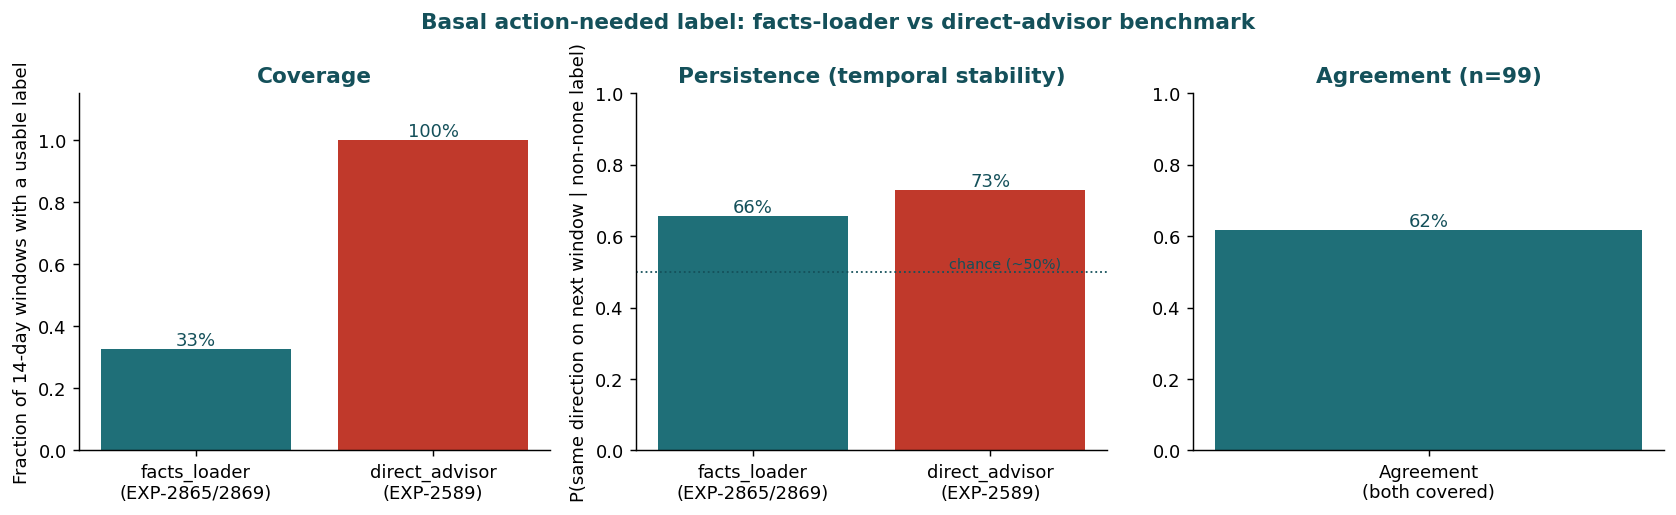
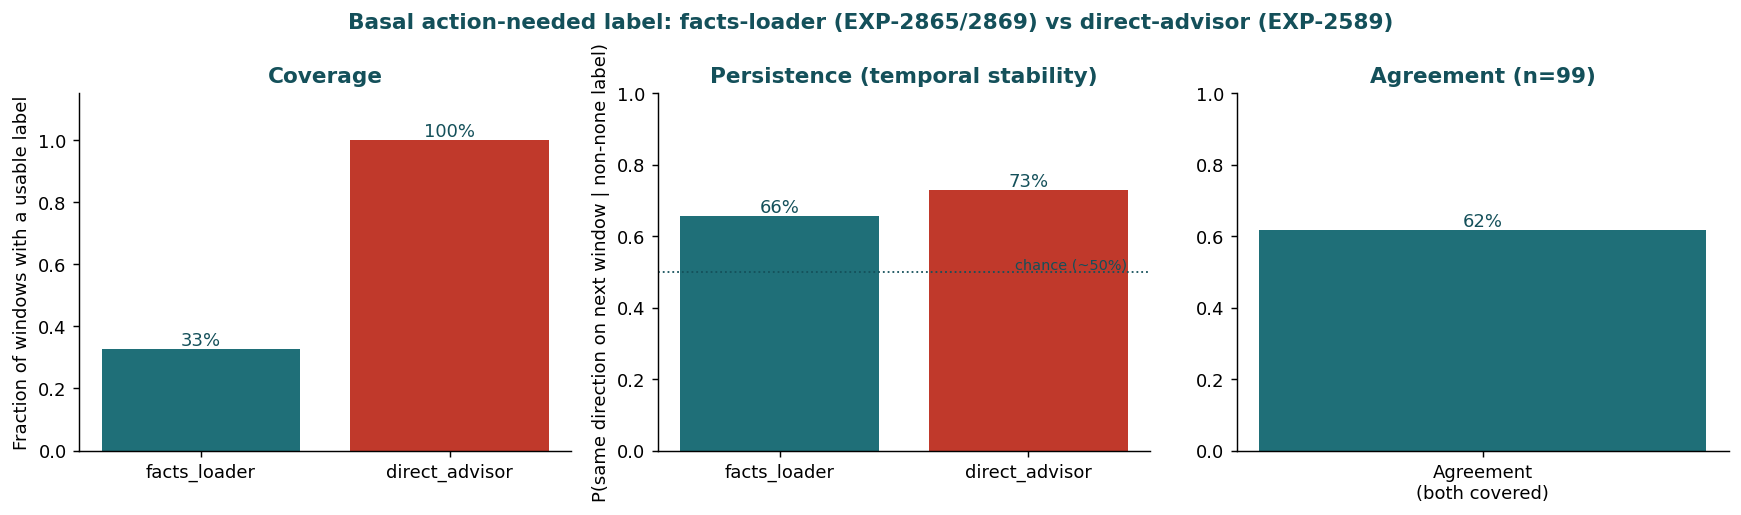
Refresh action-label benchmark deliverables: add ISF/CR figures for parity
Prompted by a deliverable-freshness check: the main therapy-trajectory
report (reports/therapy-trajectory-state/report.html) was confirmed
current (its embedded AUC numbers match the latest recency-feature
re-test), but basal was the only domain with a benchmark figure -- ISF
and CR only had numbers in the docs.

- tools/cgmencode/production/action_label_benchmark_figures.py: a
  single, tested plot_action_label_benchmark() function replacing the
  one-off basal plotting script, handling both two-method (basal/ISF)
  and single-method (CR, no facts-loader equivalent exists) summaries.
- test_action_label_benchmark_figures.py: 4 tests.
- reports/therapy-trajectory-state/basal-label-benchmark.png: regenerated
  with the new function (values unchanged -- confirms consistency with
  the original one-off script).
- reports/therapy-trajectory-state/isf-label-benchmark.png,
  cr-label-benchmark.png: new, giving all three domains the same visual
  treatment.
- docs/60-research/state-aware-harness-parallels-2026-07-01.md
  §7.4-§7.5: added the new figure references.

Verified: 4 new tests plus full existing production unit suite pass
with no regressions (1165 total).

diff --git a/tools/cgmencode/production/action_label_benchmark_figures.py b/tools/cgmencode/production/action_label_benchmark_figures.py
@@ -1,0 +1,111 @@
+"""action_label_benchmark_figures.py — shared visualization for the basal/
+ISF/CR action-label benchmarks (`basal_action_label_benchmark.py`,
+`isf_action_label_benchmark.py`, `cr_action_label_benchmark.py`; see
+docs/60-research/state-aware-harness-parallels-2026-07-01.md §7).
+
+Each benchmark's ``summarize_*_label_benchmark()`` returns the same
+shape (coverage, persistence, and -- for basal/ISF, which have two
+independent label sources -- agreement). This module renders one
+consistent 3-panel comparison chart from that summary so every domain
+gets the same visual treatment rather than one-off plotting code per
+domain (basal's first figure was generated ad hoc; this replaces that
+with a reusable, tested function).
+"""
+from __future__ import annotations
+
+from pathlib import Path
+from typing import Optional
+
+_C_A = "#1f6f78"
+_C_B = "#c0392b"
+_C_INK = "#14505a"
+
+
+def _style_axes(ax):
+    ax.spines["top"].set_visible(False)
+    ax.spines["right"].set_visible(False)
+
+
+def plot_action_label_benchmark(
+    summary: dict,
+    domain_title: str,
+    method_a_label: str,
+    method_b_label: str,
+    output_path: Path | str,
+    single_method: bool = False,
+) -> Optional[Path]:
+    """Render and save the coverage/persistence/agreement comparison chart.
+
+    ``single_method=True`` (CR's case) skips the agreement panel and the
+    second method's bars, since only one label source exists for that
+    domain (see ``cr_action_label_benchmark`` module docstring).
+
+    Returns the saved path, or ``None`` if ``summary`` has no windows.
+    """
+    if summary.get("n_windows", 0) == 0:
+        return None
+    import matplotlib.pyplot as plt
+
+    n_panels = 2 if single_method else 3
+    fig, axes = plt.subplots(1, n_panels, figsize=(4.5 * n_panels, 4))
+    if n_panels == 1:
+        axes = [axes]
+
+    labels = [method_a_label] if single_method else [method_a_label, method_b_label]
+
+    # ── Coverage ───────────────────────────────────────────────────
+    ax = axes[0]
+    if single_method:
+        vals = [summary["coverage_direct_advisor"]]
+        colors = [_C_A]
+    else:
+        vals = [summary["coverage_facts_loader"], summary["coverage_direct_advisor"]]
+        colors = [_C_A, _C_B]
+    bars = ax.bar(labels, vals, color=colors)
+    for bar, v in zip(bars, vals):
+        ax.text(bar.get_x() + bar.get_width() / 2, v, f"{v:.0%}",
+                ha="center", va="bottom", color=_C_INK)
+    ax.set_ylim(0, 1.15)
+    ax.set_ylabel("Fraction of windows with a usable label")
+    ax.set_title("Coverage", color=_C_INK, fontweight="bold")
+    _style_axes(ax)
+
+    # ── Persistence ────────────────────────────────────────────────
+    ax = axes[1]
+    if single_method:
+        vals = [summary["persistence_direct_advisor"] or 0.0]
+        colors = [_C_A]
+    else:
+        vals = [summary["persistence_facts_loader"] or 0.0,
+                summary["persistence_direct_advisor"] or 0.0]
+        colors = [_C_A, _C_B]
+    bars = ax.bar(labels, vals, color=colors)
+    for bar, v in zip(bars, vals):
+        ax.text(bar.get_x() + bar.get_width() / 2, v, f"{v:.0%}",
+                ha="center", va="bottom", color=_C_INK)
+    ax.axhline(0.5, linestyle=":", color=_C_INK, linewidth=1)
+    ax.text(len(labels) - 0.6, 0.51, "chance (~50%)", fontsize=8, color=_C_INK, ha="right")
+    ax.set_ylim(0, 1.0)
+    ax.set_ylabel("P(same direction on next window | non-none label)")
+    ax.set_title("Persistence (temporal stability)", color=_C_INK, fontweight="bold")
+    _style_axes(ax)
+
+    # ── Agreement (basal/ISF only) ────────────────────────────────
+    if not single_method:
+        ax = axes[2]
+        agreement = summary.get("agreement_where_both_covered")
+        ax.bar(["Agreement\n(both covered)"], [agreement or 0.0], color=_C_A)
+        if agreement is not None:
+            ax.text(0, agreement, f"{agreement:.0%}", ha="center", va="bottom", color=_C_INK)
+        ax.set_ylim(0, 1.0)
+        ax.set_title(f"Agreement (n={summary.get('n_both_covered', 0)})",
+                     color=_C_INK, fontweight="bold")
+        _style_axes(ax)
+
+    fig.suptitle(domain_title, color=_C_INK, fontweight="bold")
+    fig.tight_layout()
+    output_path = Path(output_path)
+    output_path.parent.mkdir(parents=True, exist_ok=True)
+    fig.savefig(output_path, dpi=130, bbox_inches="tight", facecolor="white")
+    plt.close(fig)
+    return output_path

diff --git a/tools/cgmencode/production/test_action_label_benchmark_figures.py b/tools/cgmencode/production/test_action_label_benchmark_figures.py
@@ -1,0 +1,65 @@
+"""Unit tests for action_label_benchmark_figures.py."""
+from __future__ import annotations
+
+import pytest
+
+matplotlib = pytest.importorskip("matplotlib")
+
+from tools.cgmencode.production.action_label_benchmark_figures import (
+    plot_action_label_benchmark,
+)
+
+_TWO_METHOD_SUMMARY = {
+    "n_windows": 303,
+    "n_patients": 27,
+    "coverage_facts_loader": 0.327,
+    "coverage_direct_advisor": 1.0,
+    "n_both_covered": 99,
+    "agreement_where_both_covered": 0.616,
+    "persistence_facts_loader": 0.656,
+    "persistence_direct_advisor": 0.729,
+}
+
+_SINGLE_METHOD_SUMMARY = {
+    "n_windows": 135,
+    "n_patients": 27,
+    "coverage_direct_advisor": 1.0,
+    "persistence_direct_advisor": 0.712,
+}
+
+
+def test_plot_two_method_benchmark_saves_file(tmp_path):
+    out = tmp_path / "basal.png"
+    result = plot_action_label_benchmark(
+        _TWO_METHOD_SUMMARY, "Basal benchmark",
+        "facts_loader", "direct_advisor", out,
+    )
+    assert result == out
+    assert out.exists()
+    assert out.stat().st_size > 0
+
+
+def test_plot_single_method_benchmark_saves_file(tmp_path):
+    out = tmp_path / "cr.png"
+    result = plot_action_label_benchmark(
+        _SINGLE_METHOD_SUMMARY, "CR benchmark",
+        "direct_advisor", "", out, single_method=True,
+    )
+    assert result == out
+    assert out.exists()
+
+
+def test_plot_empty_summary_returns_none(tmp_path):
+    out = tmp_path / "empty.png"
+    result = plot_action_label_benchmark({"n_windows": 0}, "Empty", "a", "b", out)
+    assert result is None
+    assert not out.exists()
+
+
+def test_plot_creates_parent_directories(tmp_path):
+    out = tmp_path / "nested" / "dir" / "isf.png"
+    result = plot_action_label_benchmark(
+        _TWO_METHOD_SUMMARY, "ISF benchmark", "facts_loader", "direct_advisor", out,
+    )
+    assert result == out
+    assert out.exists()

diff --git a/progress.md b/progress.md
@@ -12,6 +12,21 @@ This document tracks completed documentation cycles and candidates for future wo
 
 ---
 
+## Report Refresh: Consistent Benchmark Figures for All Three Domains (2026-07-01, post-close)
+
+User asked whether any deliverables needed refreshing after the session's updates. Checked `reports/therapy-trajectory-state/report.html`: still current (verified its embedded AUC numbers, 0.612 refined, match the latest recency-feature re-test). Found a real gap though: basal had a dedicated benchmark figure but ISF and CR only had numbers in the docs, no visuals.
+
+| Deliverable | Location | Notes |
+|-------------|----------|-------|
+| Reusable figure generator | `tools/cgmencode/production/action_label_benchmark_figures.py` | Replaces the one-off basal plotting script with a tested function handling both two-method (basal/ISF) and single-method (CR) summaries |
+| Tests | `test_action_label_benchmark_figures.py` (4) | |
+| Regenerated/new figures | `reports/therapy-trajectory-state/{basal,isf,cr}-label-benchmark.png` | Basal regenerated with the new function (values unchanged, confirms consistency); ISF and CR are new |
+| Design doc update | `docs/60-research/state-aware-harness-parallels-2026-07-01.md` §7.4-§7.5 | Added the ISF and CR figure references alongside basal's |
+
+All three domains now have the same visual treatment. Full production unit suite: 1165 passed, no regressions.
+
+---
+
 ## Unified Research-Stage Action-Label Scorer (2026-07-01, session close)
 
 Closes out the action-label pivot with `tools/cgmencode/production/action_label_scorer.py`: one function, `score_patient_actions(parquet_dir, patient_id)`, packaging the empirically preferred method per domain (basal: direct-advisor primary; ISF: facts-loader primary with direct-advisor fallback/corroboration; CR: direct-advisor only) into a single callable, tagged `promotion_stage: "research"` throughout. 4 new tests; verified against real data (patient `c`: basal `decrease` conf 0.55, ISF `increase` conf 0.61 with both methods agreeing, CR `none`). Explicitly **not** wired into `ClinicalDecisionPolicy`/`ClinicalDecisionReport` — this is reusable/testable infrastructure, not a production change. Full production unit suite: 1161 passed, no regressions. See `docs/60-research/state-aware-harness-parallels-2026-07-01.md` §7.7 for details.

diff --git a/docs/60-research/state-aware-harness-parallels-2026-07-01.md b/docs/60-research/state-aware-harness-parallels-2026-07-01.md
@@ -264,6 +264,8 @@ The direct-advisor ISF calibration turned out to be too computationally expensiv
 | Persistence (same direction next window) | **86.0%** | 61.0% |
 | Agreement (where both covered, n=72) | 51.4% | (same) |
 
+![ISF action-label benchmark](../../reports/therapy-trajectory-state/isf-label-benchmark.png)
+
 This is the **opposite pattern from basal**: for basal, direct-advisor won on both coverage and persistence. For ISF, direct-advisor still wins on coverage (as expected, since it's designed to always return a classification), but the facts-loader method is dramatically more temporally stable (86.0% vs 61.0% persistence) despite covering fewer windows. Agreement between the two (51.4%) is also lower than basal's (61.6%), essentially at chance for a 3-way categorical comparison — the two ISF methods disagree more often than the two basal methods did. This is concrete evidence for the point raised in discussion: different domains don't just need different evidence windows, they can favor genuinely different *methods* — there is no single "facts-loader is always better" or "direct-advisor is always better" rule across domains. For ISF specifically, the facts-loader's raw gap signal appears to be the more trustworthy repeated-measurement, even though it fires less often.
 
 ### 7.5 CR: only one evidence path exists
@@ -276,6 +278,8 @@ No CR-equivalent facts-loader exists in this codebase (confirmed by inspection: 
 |---|---:|---:|---|
 | 14 days | 100% | 63.4% | 192 / 88 / 23 (303 windows) |
 | 30 days | 100% | **71.2%** | 72 / 54 / 9 (135 windows) |
+
+![CR action-label benchmark (30-day window)](../../reports/therapy-trajectory-state/cr-label-benchmark.png)
 
 Unlike the correction-event-based ISF domain, CR's persistence *improved* materially with a longer window (63.4% -> 71.2%), directly supporting the hypothesis that different domains benefit from different evidence-window lengths: meal-response windows likely need more days to accumulate enough clean meal events for a stable read, more like basal's need for multiple nights than ISF's apparently faster-saturating correction-event accumulation.
 